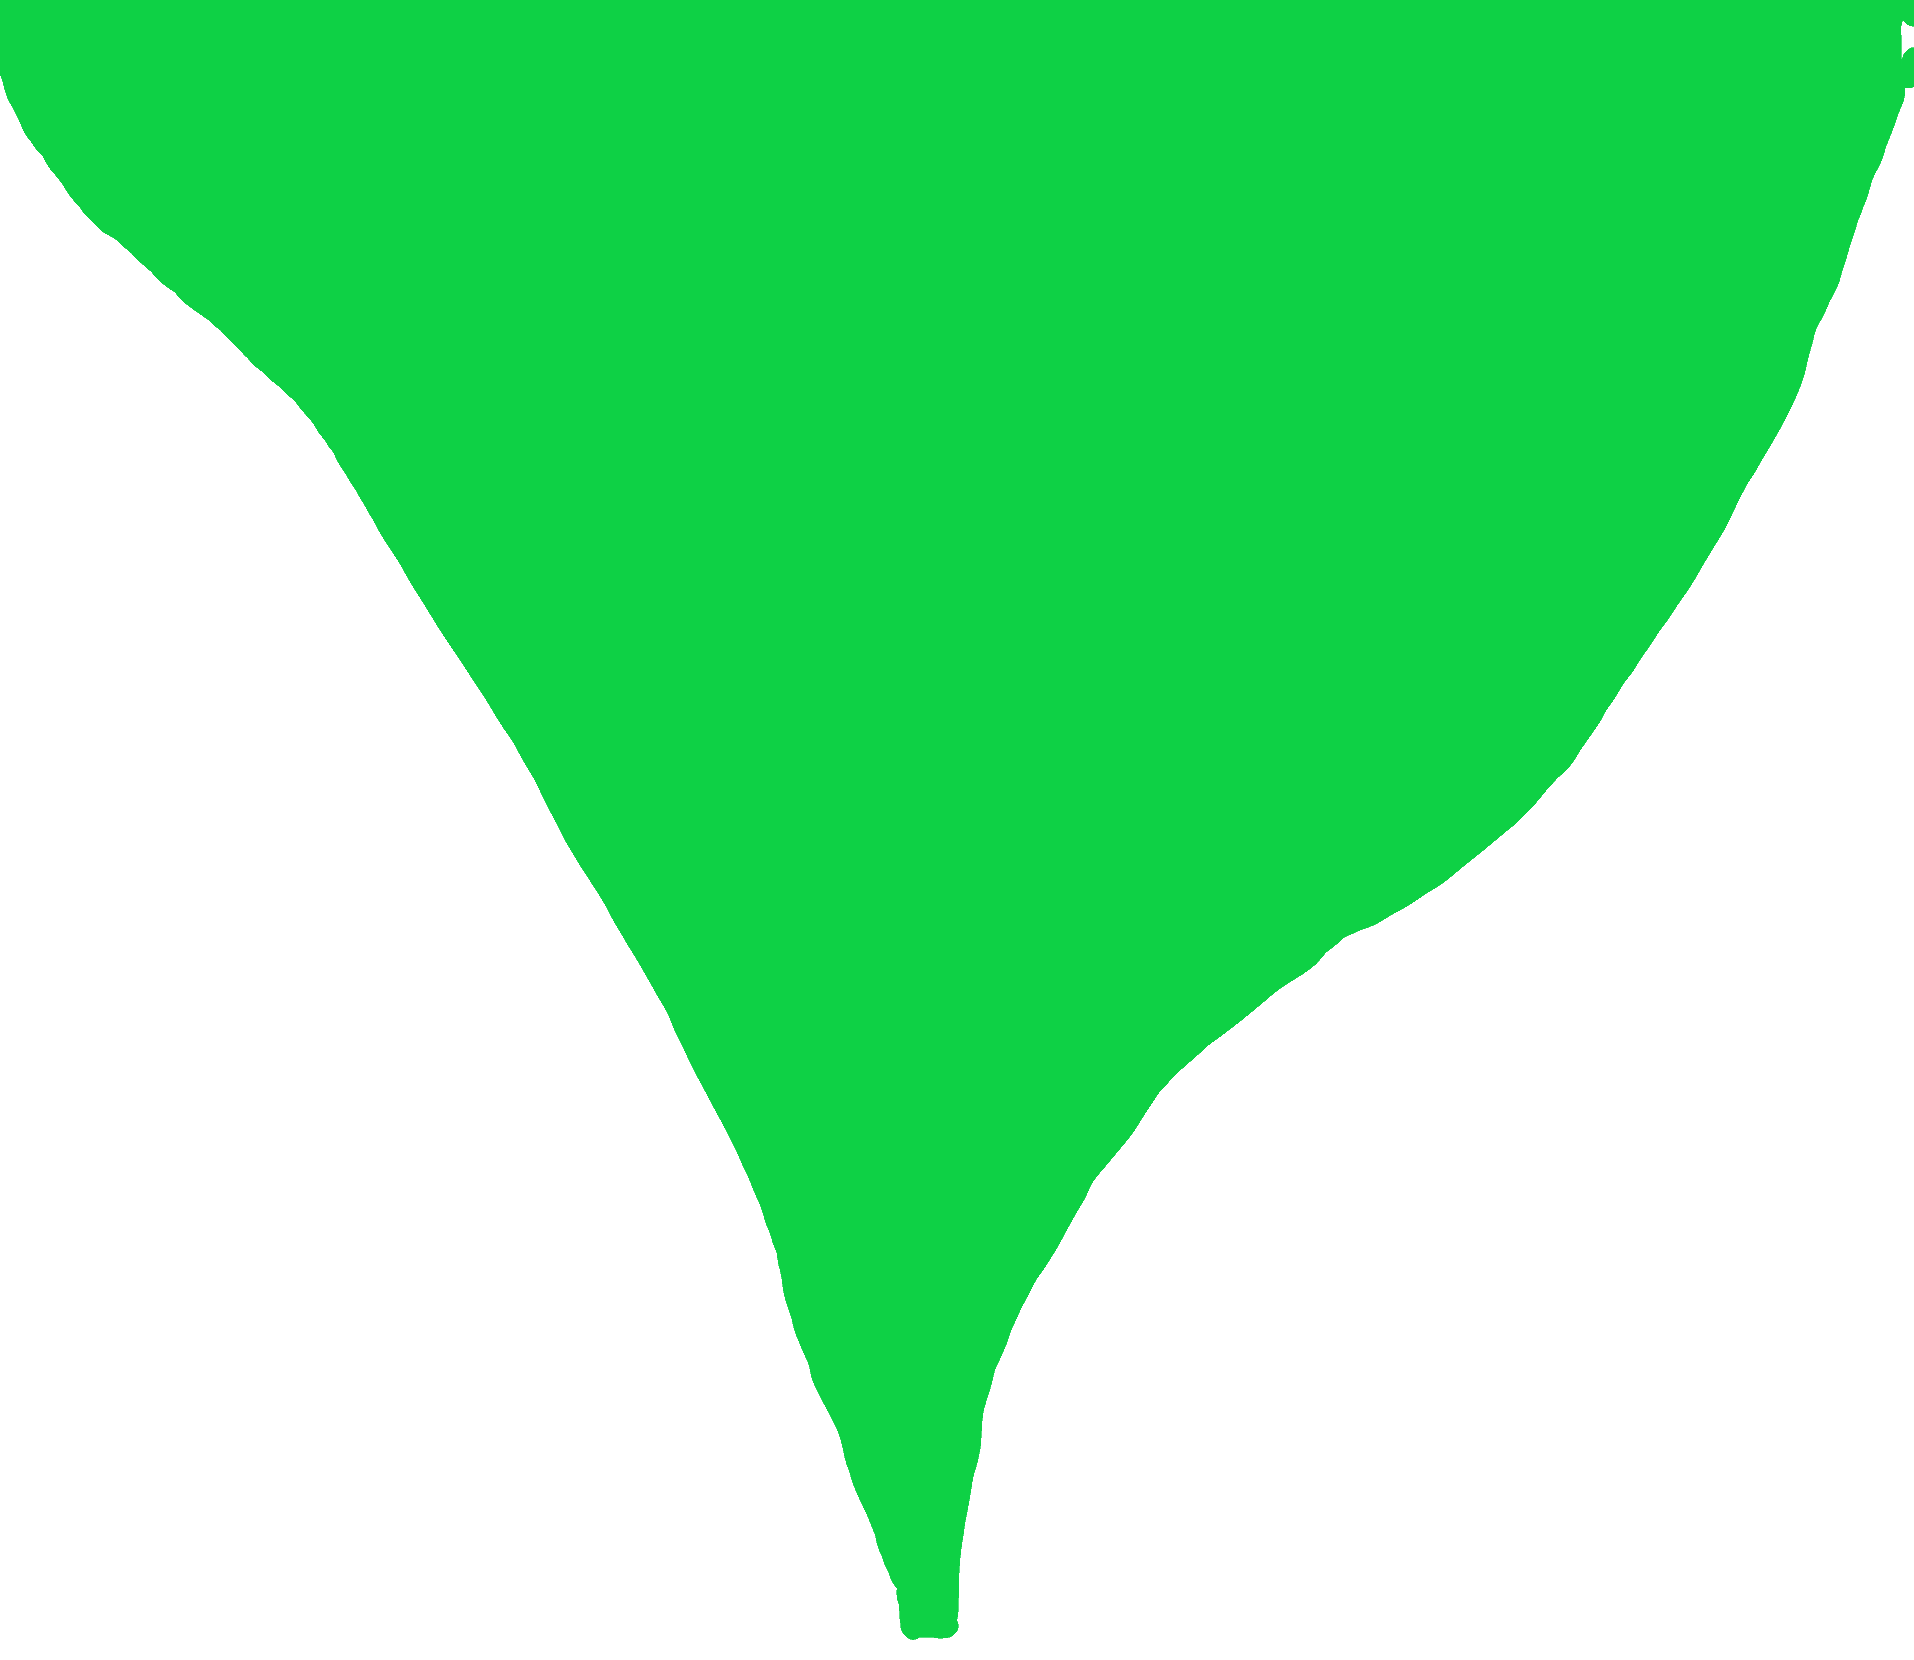
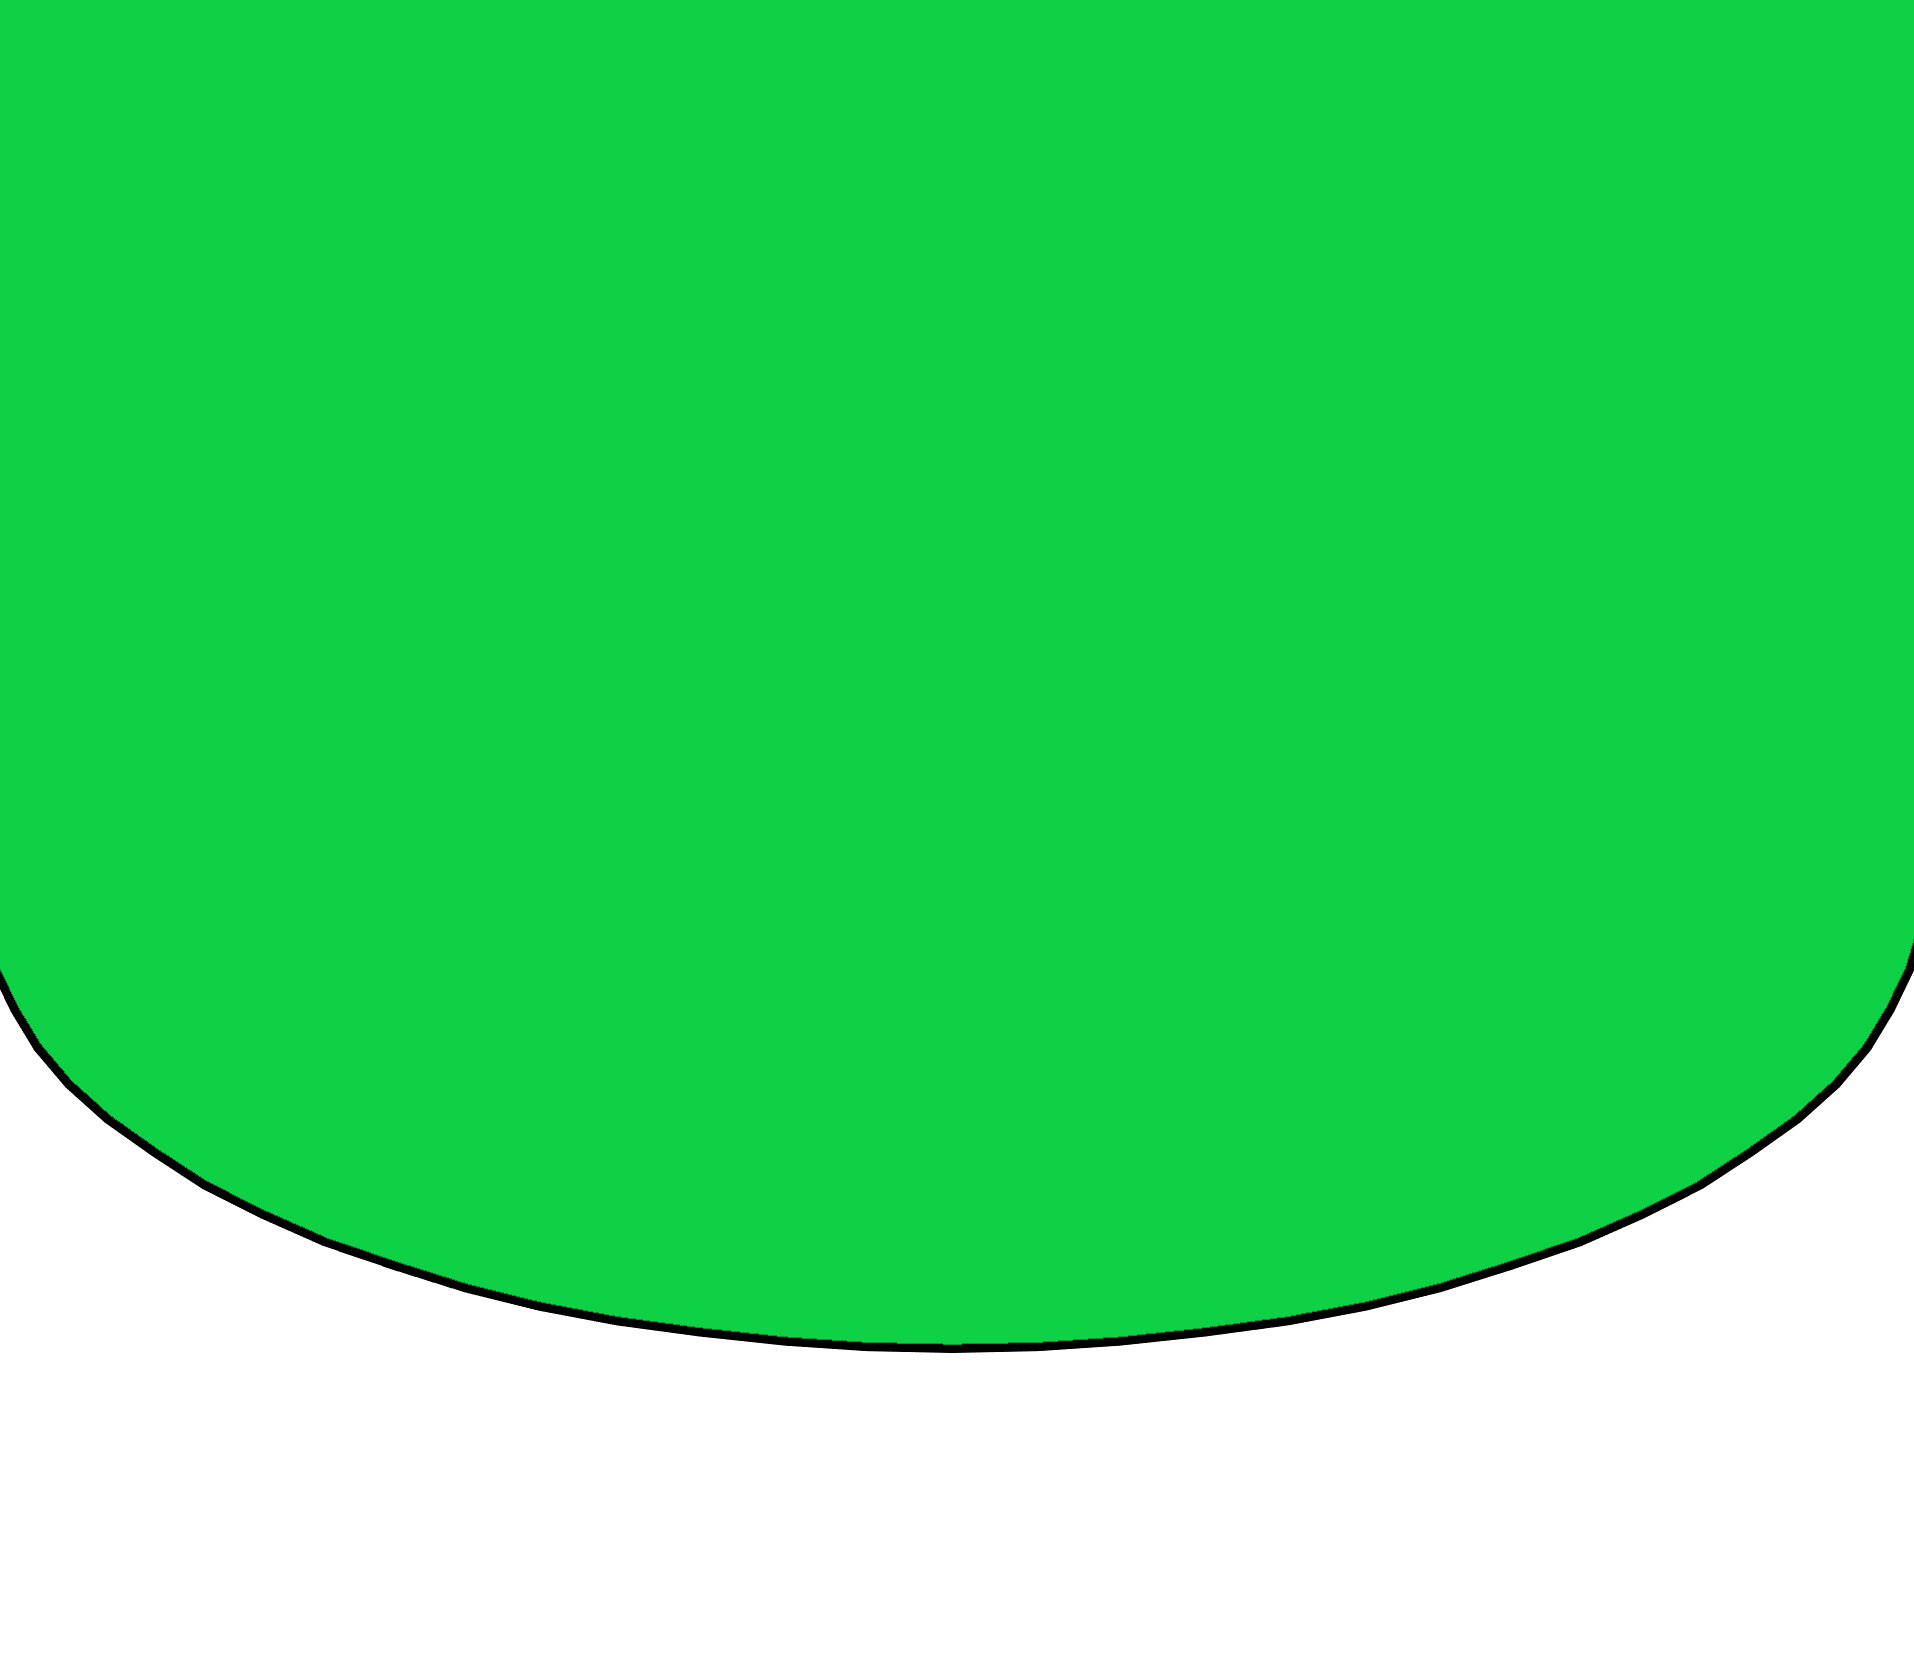
changed snake texture

Changed region(s): [[0.0, 0.0, 1.0, 1.0]]

diff --git a/Snake.cpp b/Snake.cpp
@@ -18,7 +18,7 @@ void Snake::initSnake(){
     gameCont = true;
     count = 50;
     snakeLength = 3;
-    snake = LoadImage("images/RealSnake.png");   
+    snake = LoadImage("images/Snake.png");   
     ImageResize(&snake, charWH, charWH);
     snakeSkinUp = LoadTextureFromImage(snake);
     ImageRotateCW(&snake);
